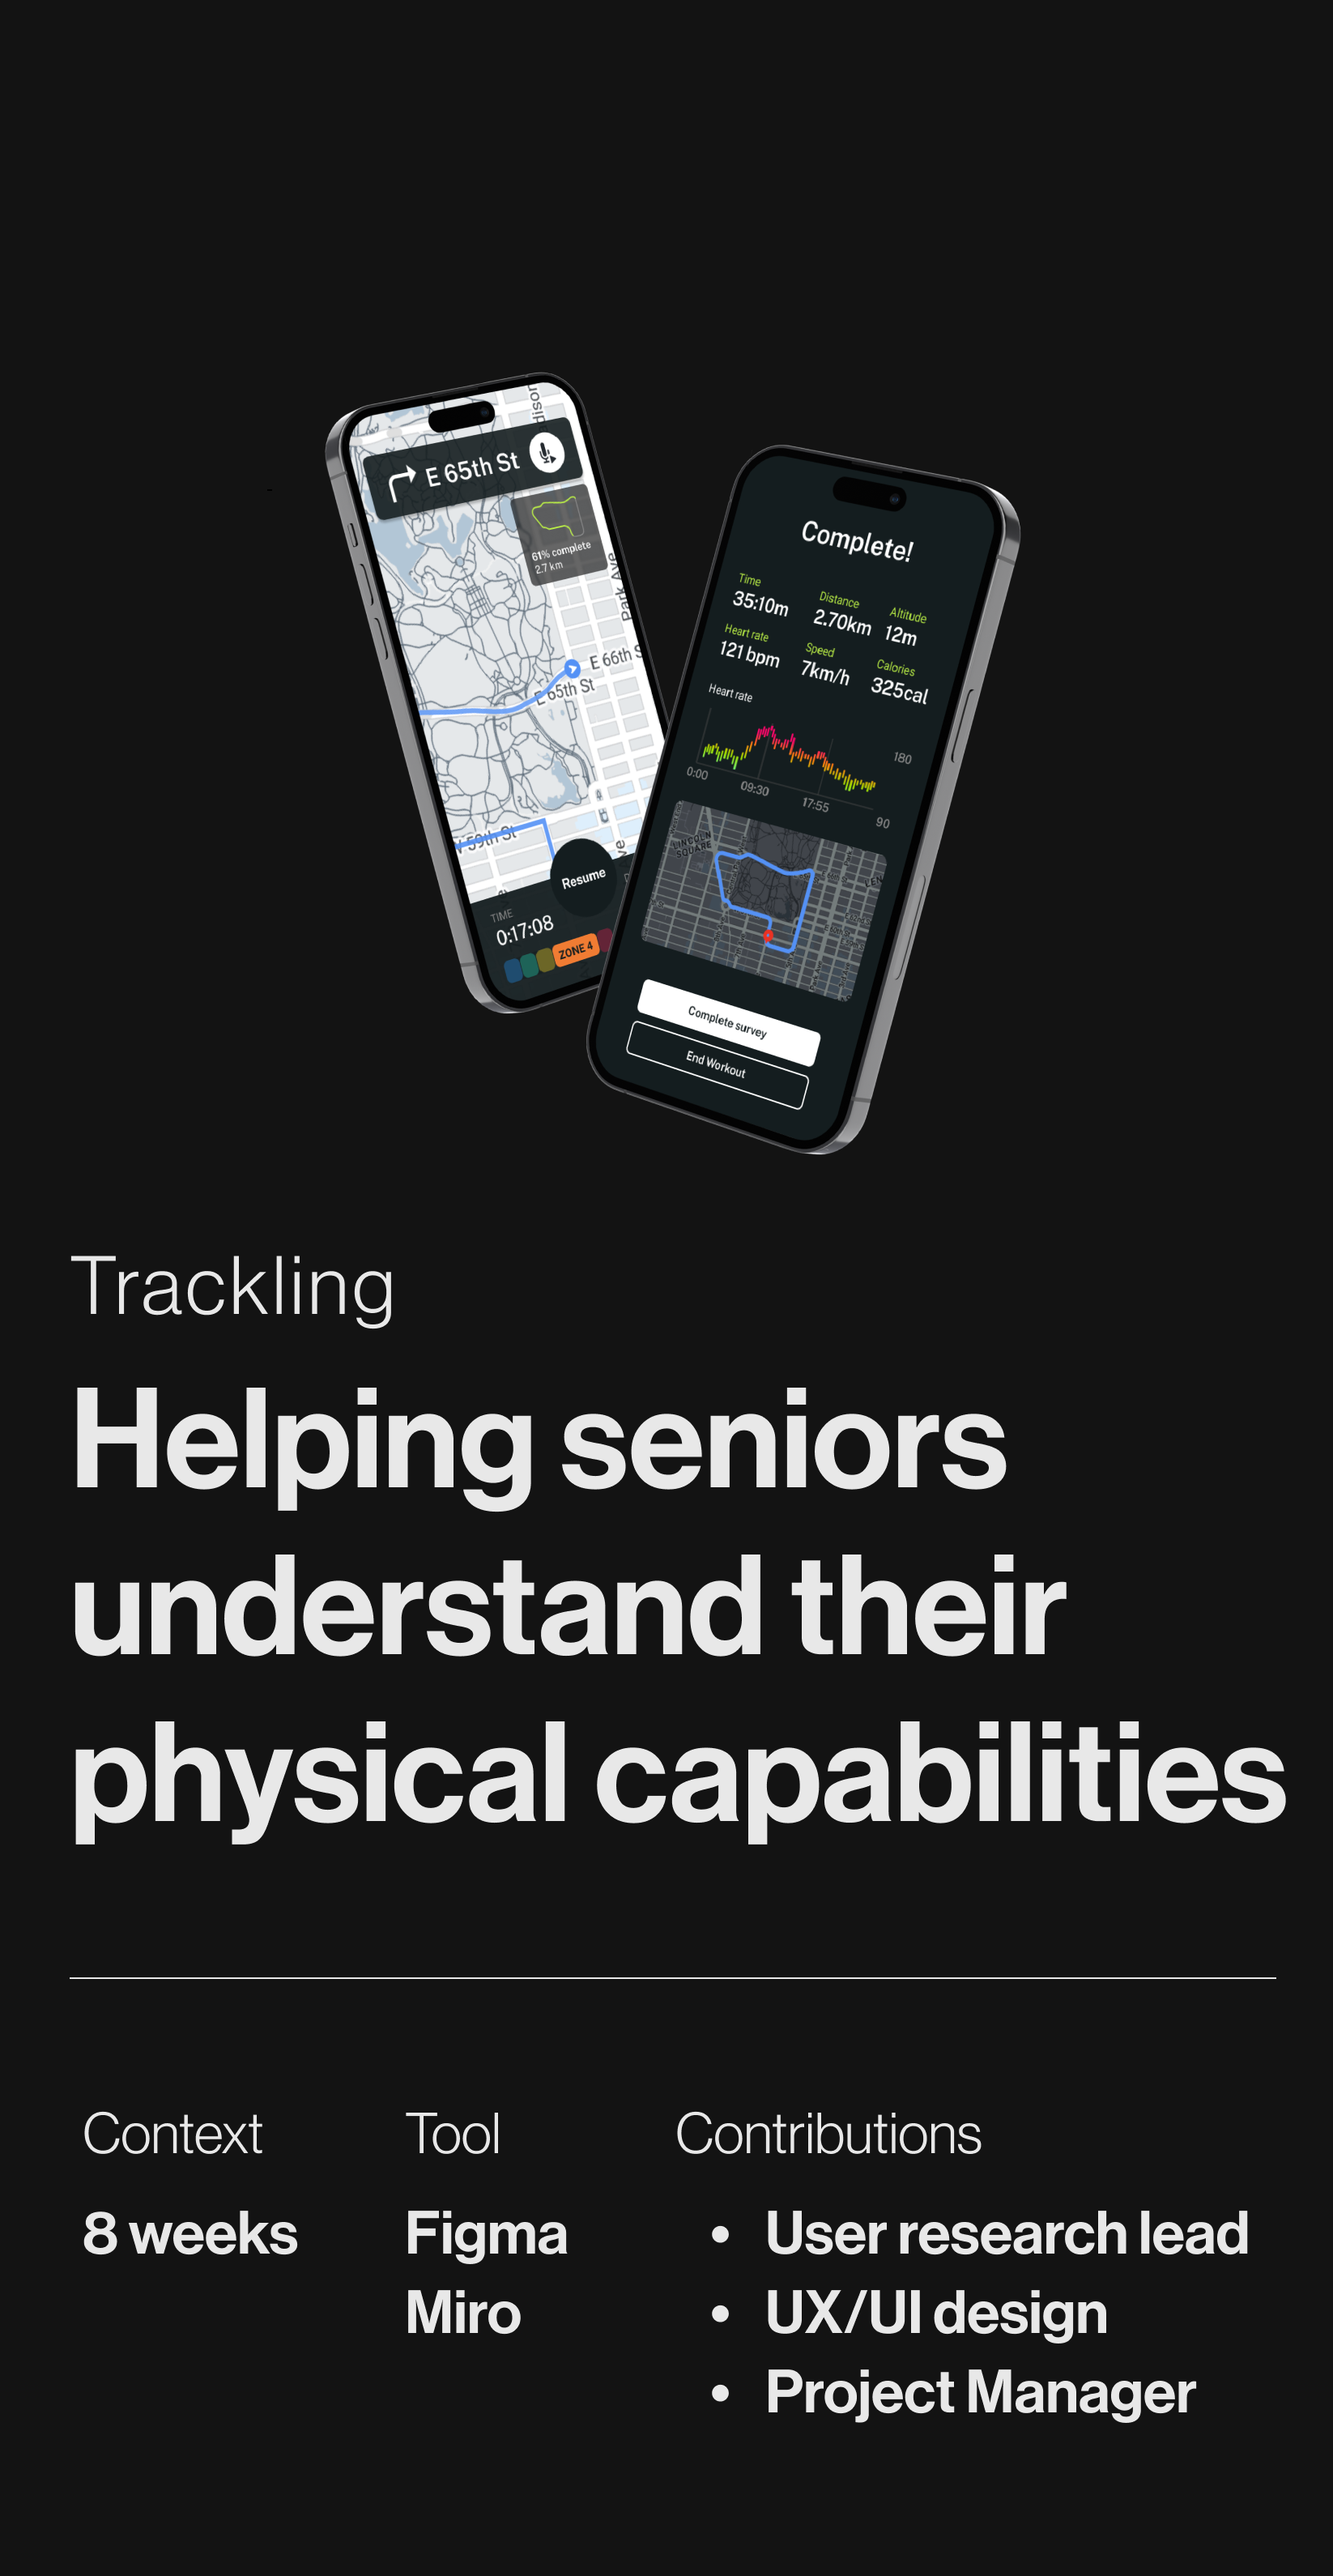
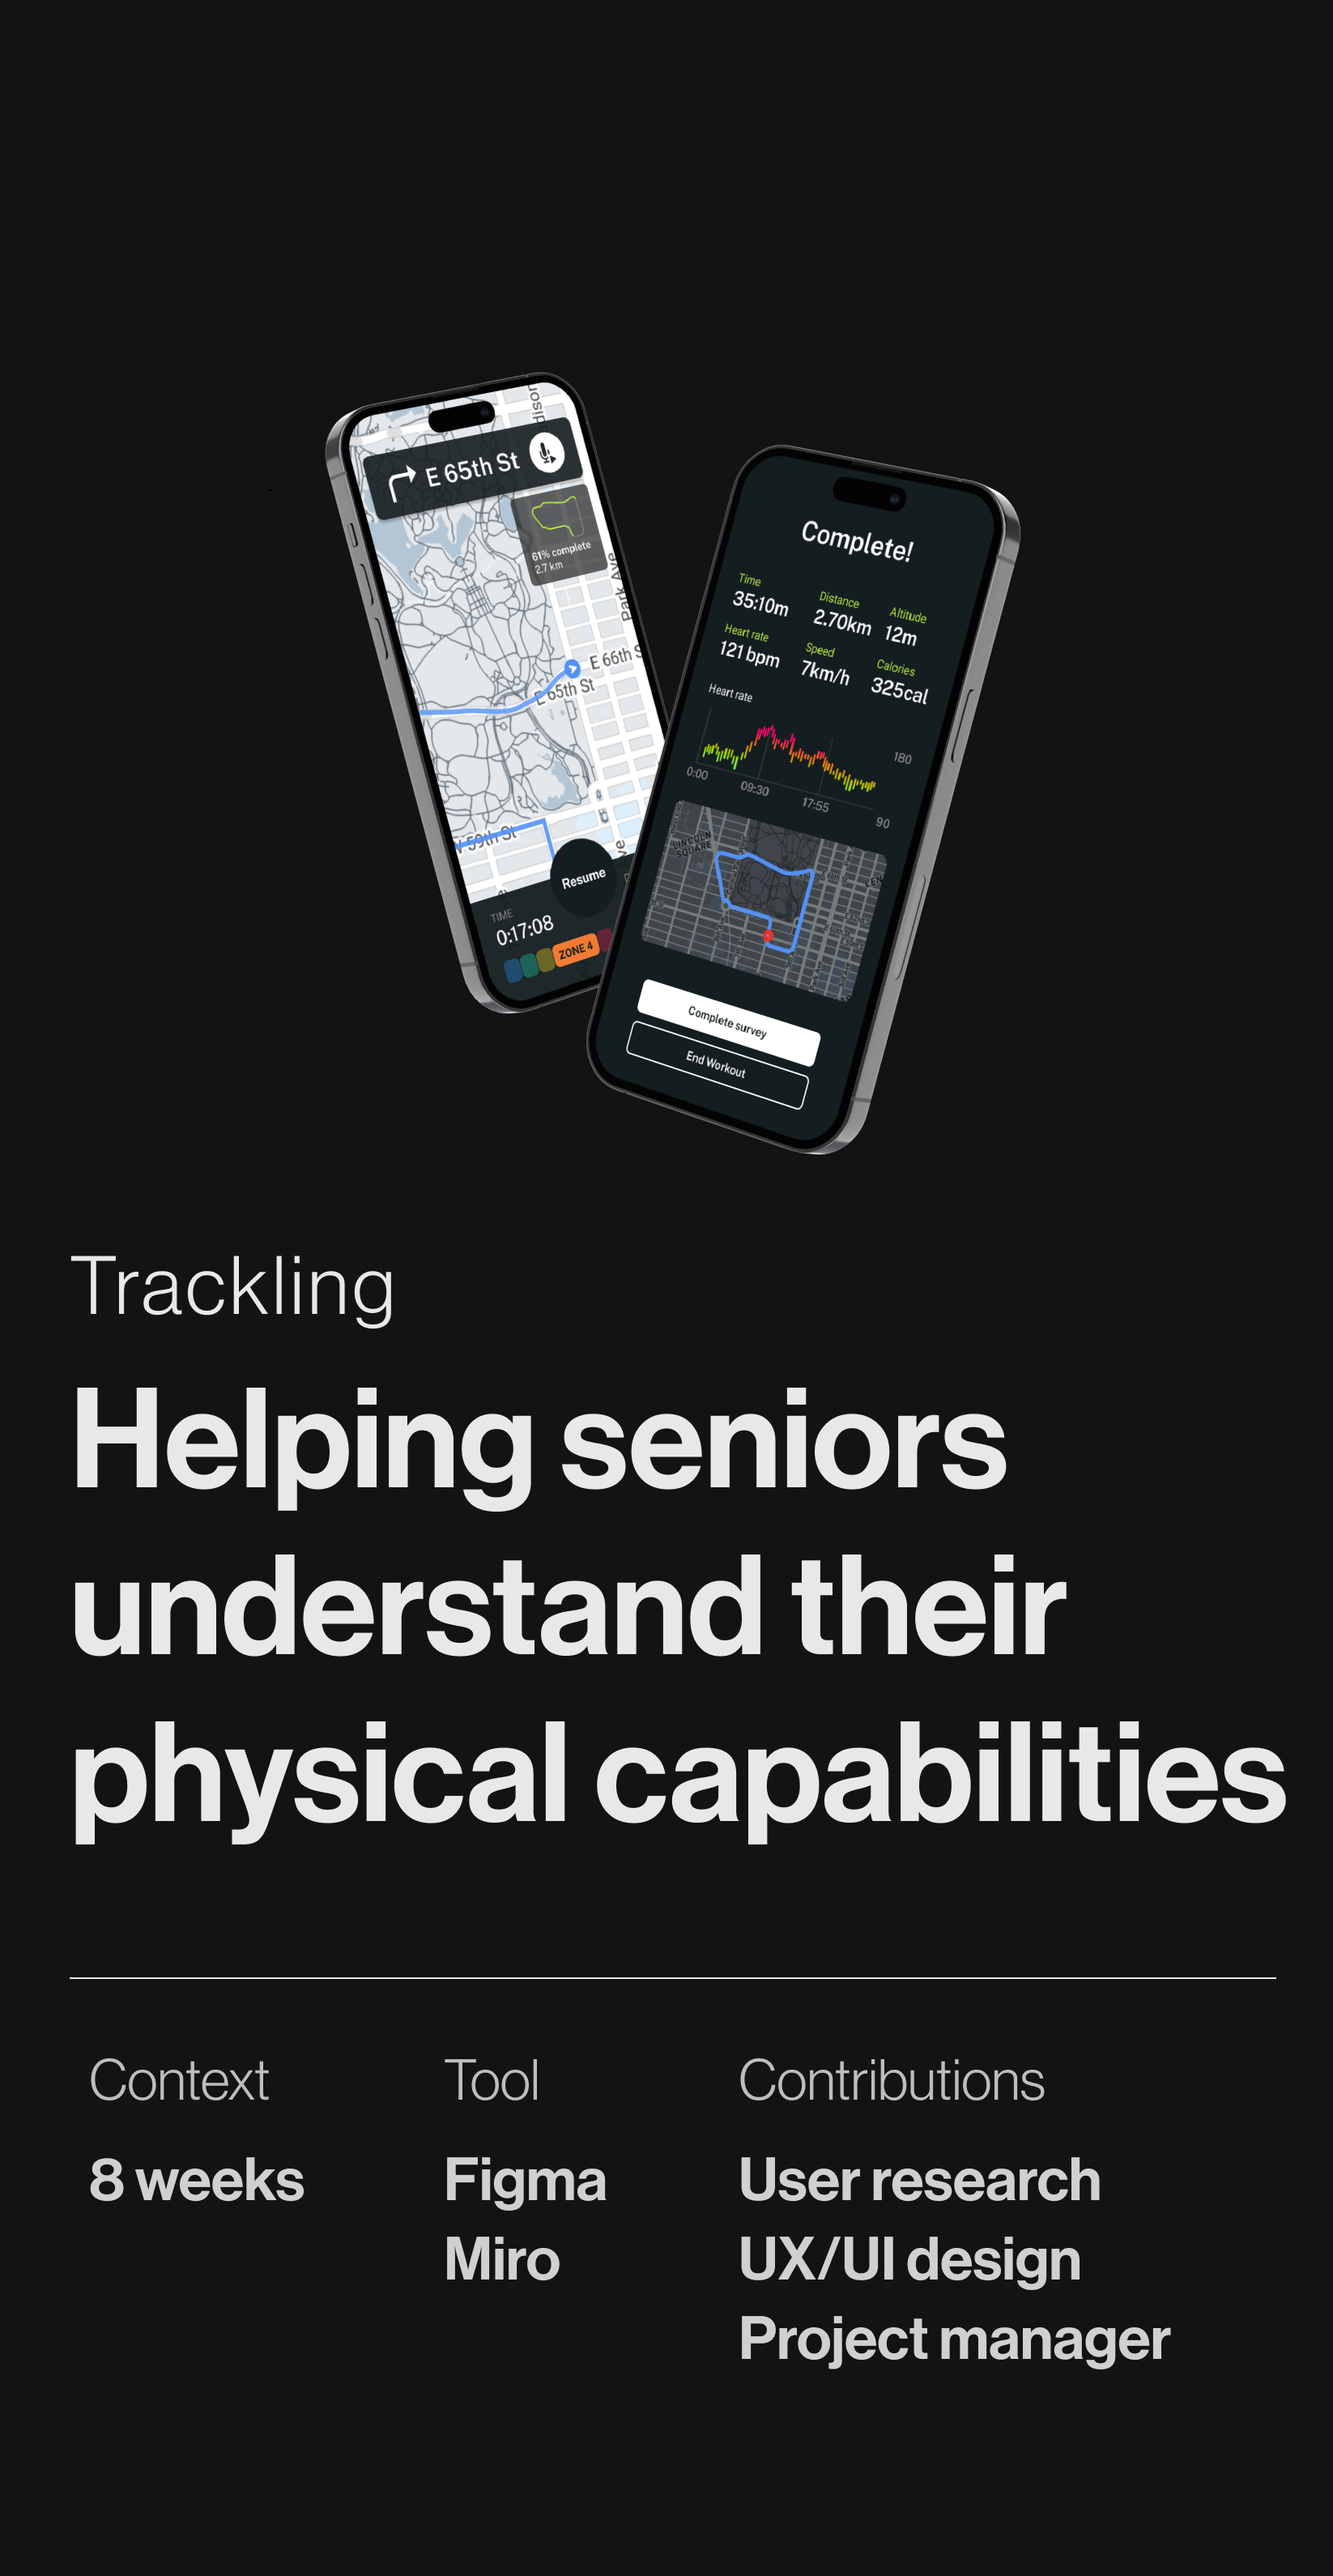
added note tracks, change hero images

Changed region(s): [[0.5267, 0.8094, 0.9295, 0.9651], [0.3098, 0.8094, 0.4648, 0.9028], [0.062, 0.8094, 0.2479, 0.8717]]

diff --git a/css/main.css b/css/main.css
@@ -140,7 +140,6 @@ body{
 	font-family: 'neue_haas_grotesk_disp55roman';
 	font-size: 3rem;
 	margin: 0;
-	width: clamp(25ch, 90%, 50ch);
 	line-height: 3.25rem;	
 }
 
@@ -179,7 +178,7 @@ body{
 }
 
 #home-projects h3{
-	font-size: 2.4rem;
+	font-size: 2.1rem;
 	margin: 0.5rem 0rem 0.5rem 0rem;
 	font-family: 'neue_haas_grotesk_disp55roman';
 }
@@ -309,17 +308,15 @@ h3.middle{
 	color: inherit;
 }
 
-#home-projects img{
-	height: 23rem;
-}
 
 .trackling-project img{
 	justify-self: center;
 }
 
 .ea-project{
-    background: radial-gradient(ellipse farthest-corner at 820px 166px, 
-    	rgba(255,40,82,1) 13%, rgba(255,141,77,1) 53%, rgba(255,222,82,1) 100%);
+    background: radial-gradient(circle at 45% 96%, rgba(152, 0, 30, 1) 30%, 
+    	rgb(175 66 5) 50%,rgba(188, 81, 21, 1) 60%, rgba(218, 177, 0, 1) 100%);
+    color: white;
 }
 
 
@@ -337,18 +334,9 @@ h3.middle{
   hsl(166deg 46% 87%) 61%,
   hsl(0deg 0% 100%) 100%
 );*/
-background-image: linear-gradient(
-  120deg,
-  hsl(0deg 0% 100%) 0%,
-  hsl(225deg 84% 95%) 2%,
-  hsl(224deg 83% 90%) 9%,
-  hsl(213deg 86% 83%) 23%,
-  hsl(195deg 73% 70%) 45%,
-  hsl(177deg 50% 60%) 67%,
-  hsl(184deg 57% 62%) 83%,
-  hsl(200deg 79% 75%) 93%,
-  hsl(223deg 83% 86%) 100%
-);
+color: white;
+background: linear-gradient(146deg, rgba(14, 27, 51, 1) 20%, rgba(8, 82, 95, 1) 40%, 
+	rgba(67, 97, 135, 1) 80%, rgb(13 50 69) 89%, rgb(14 27 50) 95%);
 }
 
 .notetracks-project{
@@ -357,27 +345,40 @@ background: linear-gradient(90deg,
 	rgba(85,133,255,0.95) 3%, rgba(85,133,255,1) 40%, rgba(243,243,254,1) 100%);*/
 background-image: linear-gradient(
   13deg,
-  hsl(268deg 68% 39%) 0%,
-  hsl(255deg 46% 70%) 55%,
-  hsl(255deg 58% 76%) 65%,
-  hsl(268deg 63% 59%) 100%
+  hsl(16.79deg 68% 39%) 0%,
+  hsl(255deg 86.27% 30.87%) 55%,
+  hsl(265.16deg 100% 32.47%) 65%,
+  hsl(15.1deg 78.59% 64.2%) 100%
 );
+color: white;
 
 }
 
-/* .vscia-project{
-	background-image: linear-gradient( 135deg, hsl(223deg 87% 44%) 0%, hsl(227deg 78% 78%) 81%, hsl(225deg 93% 83%) 92%, hsl(223deg 90% 63%) 100% );
-} */
 
 .ea-project:hover{
-	background: radial-gradient(circle at 57% 96%, rgba(152, 0, 30, 1) 30%, rgba(188, 81, 21, 1) 59%, rgba(218, 177, 0, 1) 78%);
+   background: radial-gradient(circle at 45% 96%, rgb(233 0 46) 30%, 
+     rgb(226 81 0) 50%,rgb(240 118 49) 60%, rgb(255 226 102) 100%);
 	background-size: 400% 400%;
  	animation: gradient 6s ease infinite;
  	color: white;
 }
 
 .trackling-project:hover{
-	background: linear-gradient(146deg, rgba(14, 27, 51, 1) 20%, rgba(8, 82, 95, 1) 40%, rgba(67, 97, 135, 1) 80%, rgba(139, 170, 249, 1) 88%, rgba(154, 167, 255, 1) 95%);
+	background: linear-gradient(146deg, rgb(30 87 192) 20%, rgb(41 134 150) 40%, 
+	rgb(98 145 204) 80%, rgb(37 111 148) 89%, rgb(42 107 223) 95%);
+	background-size: 400% 400%;
+	animation: gradient 6s ease infinite;
+	color: white;
+}
+
+.notetracks-project:hover{
+	background: linear-gradient(
+  13deg,
+  hsl(32.69deg 100% 58.4%) 0%,
+  hsl(259.22deg 96.65% 60.71%) 55%,
+  hsl(265.16deg 100% 57.74%) 65%,
+  hsl(15.1deg 78.59% 64.2%) 100%
+);
 	background-size: 400% 400%;
 	animation: gradient 6s ease infinite;
 	color: white;

diff --git a/notetracks.html b/notetracks.html
@@ -20,8 +20,8 @@
 
     <!-- Landing image -->
     <picture>
-        <source media="(max-width:700px)" srcset="img/ea-heroPH.png">
-        <img src="img/ea-hero.png" alt="ea hero image">
+        <source media="(max-width:700px)" srcset="img/nt-heroPH.png">
+        <img src="img/nt-hero.png" alt="notetracks hero image">
     </picture>
 
 </header>
@@ -44,8 +44,8 @@
                 <hr class="section_separator">
                 <div class="sub-sec-trackling">
                     <h3>Introduction</h3>
-                    <p>Notetracks is a software tool that helps audio creators collaborate, review, and complete their audio projects. Currently I work closely with the founder to create and enhace product features.</p>
-                    <p>The latest problem I have been tackling is transcription.</p>
+                    <p>Notetracks is a <strong>software tool</strong> that helps audio creators collaborate, review, and complete their <strong>audio</strong> projects. I work closely with the Founder to create and enhace product features.</p>
+                    <p>The latest problem I have been tackling is <strong>transcription.</strong></p>
                 </div>
 
                 <div >
@@ -136,7 +136,8 @@
 
     <div class="main-content">
         <section class="process">
-                <h2>Please contact me for other design work at Notetracks.</h2>
+            <h2>Currently implementing AI features</h2>
+            <h2>Please contact me for other design work at Notetracks.</h2>
     
         </section> <!-- eprocess -->
     </div> <!-- ea-value main-content -->
@@ -174,12 +175,12 @@
     <!-- FOOTER -->
     <div class="footer-container">
         
-        <a class="footer-left" href="trackling.html">
+        <a class="footer-left" href="ea.html">
             <!-- <div>
                 <div class="arrow-point-l"></div>
                 <div class="arrow-line-l"></div>
             </div> -->
-            <div>Previous: Trackling</div>
+            <div>Electronic Arts</div>
         </a>
         
         <a class="footer-right" href="index.html">

diff --git a/index.html b/index.html
@@ -54,9 +54,9 @@
                  <div class="home-projects-grid trackling-project">
                     <div class="home-projects-desc">
                         <h5>Trackling</h5>
-                        <h3>Help seniors understand their physical capabilities through live health tracking</h3>
+                        <h3>Help seniors understand their physical capabilities through live tracking</h3>
                     </div>
-                    <img src="img/home-project-trackling-img.png" >
+                    <img src="img/home-project-trackling-img1.png" >
                 </div>
             </a>
 
@@ -66,19 +66,19 @@
                         <h5>Electronic Arts</h5>
                         <h3>Allow users to make informed purchasing decisions with game states</h3>
                     </div>
-                    <img src="img/home-project-ea-img.png"> 
+                    <img src="img/home-project-ea-img1.png"> 
                 </div>
             </a>
  
-            <!-- <a href="notetracks.html">
+            <a href="notetracks.html">
                 <div class="home-projects-grid notetracks-project">
                     <div class="home-projects-desc">
                         <h5>Notetracks</h5>
-                        <h3>Balancing form and function for an audio collaboration tool</h3>
+                        <h3>Balancing form and function to improve audio collaboration</h3>
                     </div>
-                    <img src="img/home-project-notetracks-img.png" >
+                    <img src="img/home-project-nt-img.png">
                 </div>
-            </a> -->
+            </a> 
 
 
         </div> <!-- home-projects -->

diff --git a/ea.html b/ea.html
@@ -438,11 +438,11 @@
                 <div class="arrow-point-l"></div>
                 <div class="arrow-line-l"></div>
             </div> -->
-            <div>Previous: Trackling</div>
+            <div>Trackling</div>
         </a>
         
-        <a class="footer-right" href="index.html">
-            <div>Home</div>
+        <a class="footer-right" href="notetracks.html">
+            <div>Notetracks</div>
             <!-- <div>
                 <div class="arrow-point-r"></div>
                 <div class="arrow-line-r"></div>

diff --git a/css/grid.css b/css/grid.css
@@ -24,9 +24,9 @@
 .home-projects-grid{
 	display: grid;
 	grid-template-columns: 1fr 0.85fr;
-	grid-column-gap: 1rem ;
-	padding-top: 0.5rem;
-	padding-bottom: 0.5rem;
+	grid-column-gap: 2.5rem ;
+	padding-top: 2rem;
+	padding-bottom: 2rem;
 	align-items: center;
 }
 
